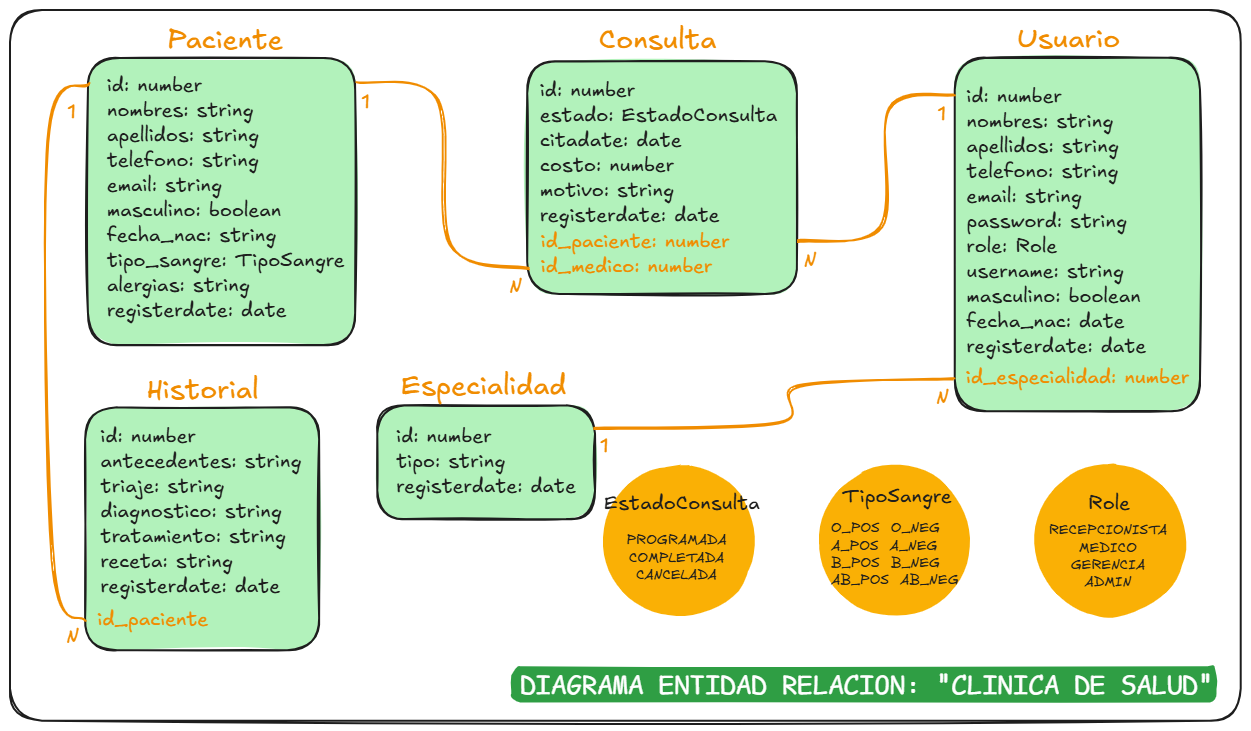
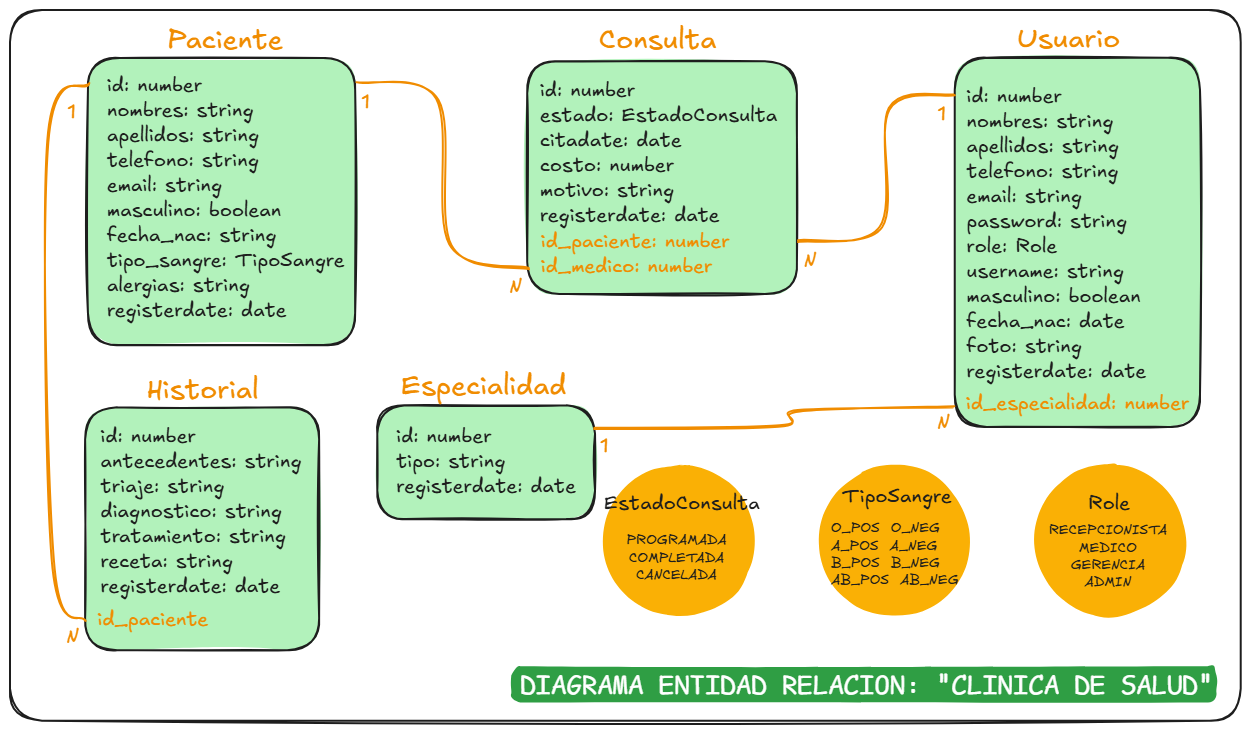
add roles pacientes

Changed region(s): [[0.5612, 0.4514, 0.9664, 0.6019]]

diff --git a/src/paciente/paciente.controller.ts b/src/paciente/paciente.controller.ts
@@ -13,11 +13,12 @@ import { UpdatePacienteDto } from './dto/update-paciente.dto.js';
 import { Roles } from '../auth/decorators/roles.decorator.js';
 import { ApiBearerAuth, ApiOperation } from '@nestjs/swagger';
 
+@Roles('ADMIN')
 @Controller('pacientes')
 @ApiBearerAuth()
 export class PacienteController {
   constructor(private readonly pacienteService: PacienteService) {}
-  @Roles('RECEPCIONISTA')
+  @Roles('RECEPCIONISTA', 'ADMIN')
   @ApiOperation({ summary: 'Registra un nuevo Paciente' })
   @Post()
   create(@Body() createPacienteDto: CreatePacienteDto) {
@@ -36,7 +37,7 @@ export class PacienteController {
     return this.pacienteService.findOne(+id);
   }
 
-  @Roles('RECEPCIONISTA')
+  @Roles('RECEPCIONISTA','ADMIN')
   @ApiOperation({
     summary: 'Actualiza algún campo de un Paciente identificado por su ID',
   })

diff --git a/src/consulta/consulta.controller.ts b/src/consulta/consulta.controller.ts
@@ -17,11 +17,12 @@ import { Roles } from '../auth/decorators/roles.decorator.js';
 import { ApiBearerAuth, ApiOperation } from '@nestjs/swagger';
 
 @ApiBearerAuth()
+@Roles('ADMIN')
 @Controller('consultas')
 export class ConsultaController {
   constructor(private readonly consultaService: ConsultaService) {}
 
-  @Roles('RECEPCIONISTA')
+  @Roles('RECEPCIONISTA', 'ADMIN')
   @ApiOperation({ summary: 'Registra una nueva Consulta' })
   @Post()
   create(@Body() createConsultaDto: CreateConsultaDto) {

diff --git a/src/usuario/usuario.service.ts b/src/usuario/usuario.service.ts
@@ -33,7 +33,15 @@ export class UsuarioService {
   }
 
   async findByEmail(email: string) {
-    return await this.prisma.check.usuario.findFirst({ where: { email } });
+    return await this.prisma.check.usuario.findFirst({
+      where: { email },
+      omit: {
+        id_especialidad: true,
+        registerdate: true,
+        fechanacimiento: true,
+        masculino: true,
+      },
+    });
   }
 
   async findAllMedico() {

diff --git a/src/auth/auth.controller.ts b/src/auth/auth.controller.ts
@@ -64,7 +64,7 @@ export class AuthController {
   @Get('profile')
   async profile(@User() user: any) {
     // Uso de @User, para traer toda la data del usuario logeado
-    return user;
+    return this.authService.profile(user.id);
   }
 
   // NUEVO ENDPOINT PARA ACTUALIZAR EL PERFIL CLÍNICO con CLOUDINARY

diff --git a/src/auth/auth.service.ts b/src/auth/auth.service.ts
@@ -39,6 +39,10 @@ export class AuthService {
     return this.usuarioService.updatePassword(email, newPasswordDto);
   }
 
+  async profile(id: number) {
+    return this.usuarioService.findOne(id);
+  }
+
   // Nuevo método para actualizar perfil
   async actualizarPerfil(
     usuarioId: number,
